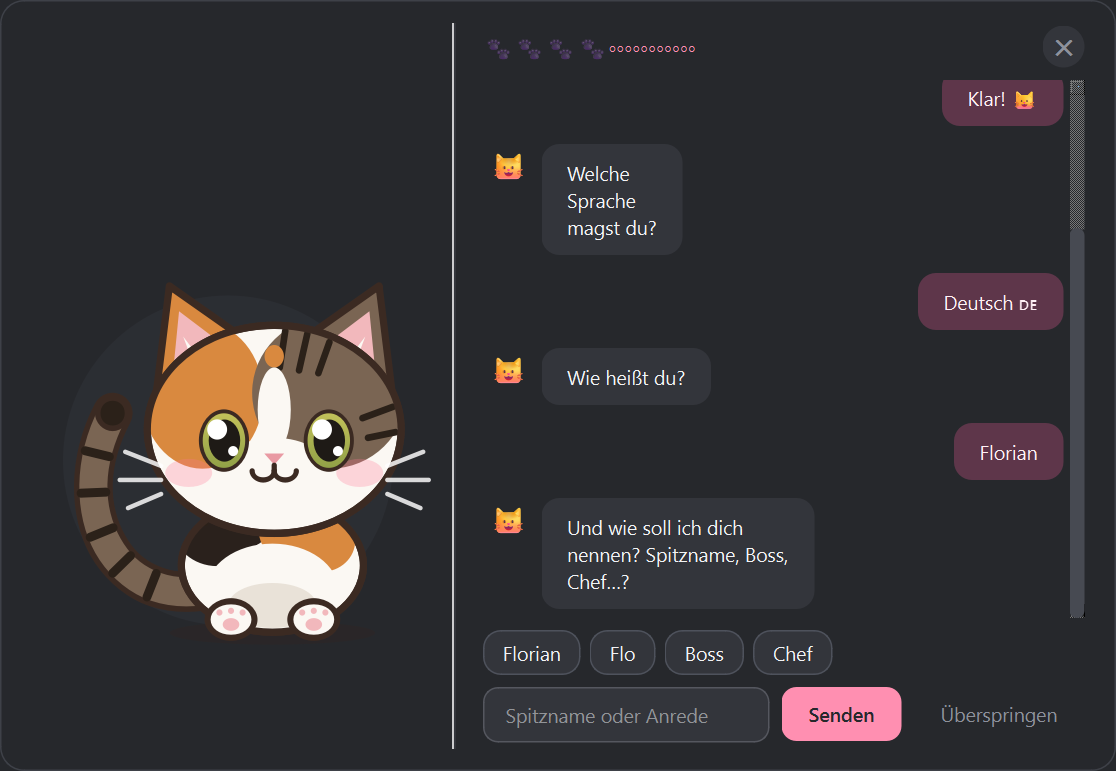
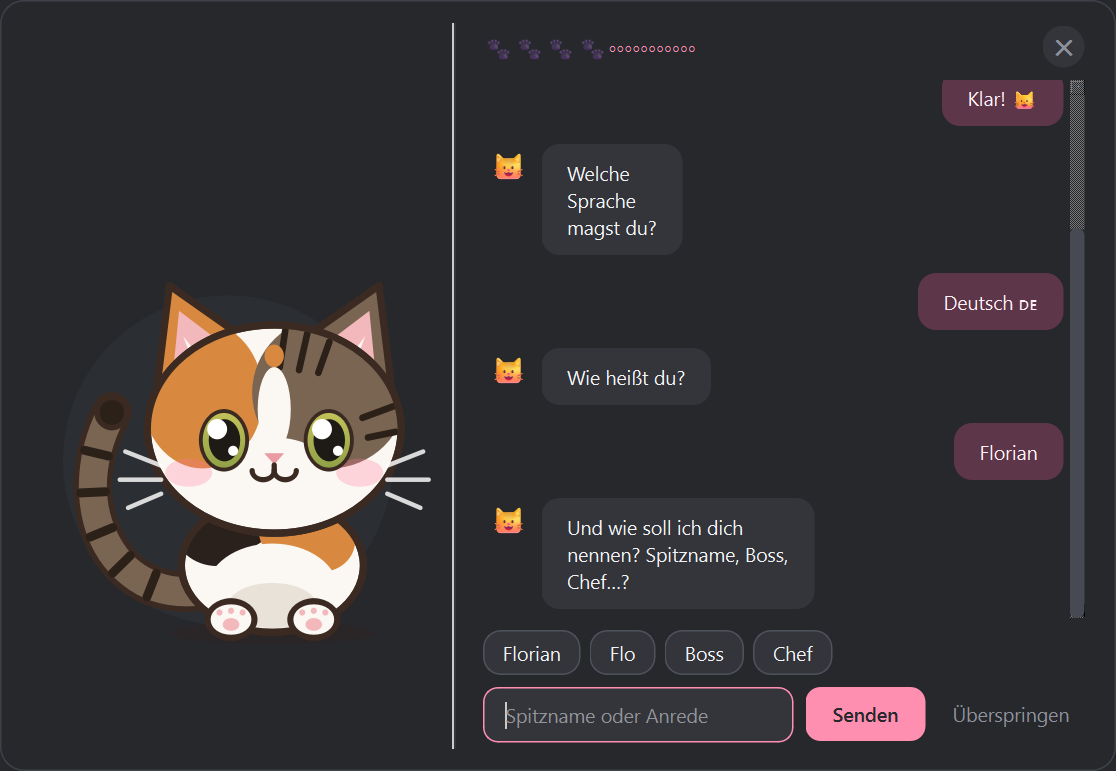
v2.2.1: Kennenlern-Buttons lesbar (Raster statt Zeile, "&" sichtbar)
Die Antwort-Chips standen alle in einer Zeile und wurden zusammengequetscht,
Texte und "Ueberspringen" waren abgeschnitten. Qt hat ausserdem "&" als
Tastenkuerzel verschluckt ("lieb & verspielt" -> "lieb  verspielt").
Jetzt 2-spaltiges Raster mit Mindestbreite, "&" maskiert, Ueberspringen in
eigener Zeile. Neue Screenshots ui_onboarding_tone/uses zur Kontrolle.

diff --git a/onboarding.py b/onboarding.py
@@ -32,6 +32,11 @@ FALLBACK_REACTIONS_EN = [
 ]
 
 
+def _btn_text(label: str) -> str:
+    """Qt macht aus '&' ein Tastenkuerzel und verschluckt es ('lieb & verspielt' -> 'lieb  verspielt')."""
+    return label.replace("&", "&&")
+
+
 def clean_free_text(text: str, max_len: int = 60) -> str:
     """Bereinigt Freitext-Eingaben: Whitespace trimmen, Zeilenumbrueche entfernen, Laenge begrenzen."""
     if not text:
@@ -886,32 +891,39 @@ class OnboardingDialog(QDialog):
 
     # -- UI-Generatoren fuer Eingabe-Elemente -------------------------------------------
     def _render_chips(self, chips: list[tuple[str, Any]], can_skip: bool = False) -> None:
-        chip_box = QHBoxLayout()
-        chip_box.setSpacing(8)
-
-        for label, val in chips:
-            btn = QPushButton(label)
+        # Raster statt einer Zeile: lange Chips ("🥰 lieb & verspielt") wurden sonst zusammengequetscht
+        grid = QGridLayout()
+        grid.setHorizontalSpacing(8)
+        grid.setVerticalSpacing(8)
+        cols = 2 if len(chips) > 2 else len(chips)
+        for i, (label, val) in enumerate(chips):
+            btn = QPushButton(_btn_text(label))
             btn.setCursor(Qt.CursorShape.PointingHandCursor)
             btn.setStyleSheet("""
                 QPushButton {
                     background: #3A3C43; color: #F2F3F5; border-radius: 14px;
-                    padding: 8px 16px; font-size: 10pt; font-weight: 500; border: none;
+                    padding: 9px 16px; font-size: 10pt; font-weight: 500; border: none;
                 }
                 QPushButton:hover { background: #FF8FB1; color: #26282C; }
             """)
+            btn.setMinimumWidth(btn.sizeHint().width())
             btn.clicked.connect(lambda _=False, v=val, l=label: self._handle_answer(v, l))
-            chip_box.addWidget(btn)
-
-        chip_box.addStretch(1)
+            grid.addWidget(btn, i // cols, i % cols)
+        self.input_lay.addLayout(grid)
 
         if can_skip:
-            btn_skip = QPushButton(tr("onboarding.btn_skip"))
-            btn_skip.setCursor(Qt.CursorShape.PointingHandCursor)
-            btn_skip.setStyleSheet("background: transparent; color: #8D919B; font-size: 9.5pt;")
-            btn_skip.clicked.connect(self._handle_skip)
-            chip_box.addWidget(btn_skip)
+            self.input_lay.addLayout(self._skip_row())
 
-        self.input_lay.addLayout(chip_box)
+    def _skip_row(self) -> QHBoxLayout:
+        row = QHBoxLayout()
+        row.addStretch(1)
+        btn_skip = QPushButton(tr("onboarding.btn_skip"))
+        btn_skip.setCursor(Qt.CursorShape.PointingHandCursor)
+        btn_skip.setStyleSheet("background: transparent; color: #8D919B; font-size: 9.5pt; padding: 4px 8px;")
+        btn_skip.setMinimumWidth(btn_skip.sizeHint().width())
+        btn_skip.clicked.connect(self._handle_skip)
+        row.addWidget(btn_skip)
+        return row
 
     def _render_text_input(self, placeholder: str, default_text: str = "", can_skip: bool = False) -> None:
         row = QHBoxLayout()
@@ -937,11 +949,7 @@ class OnboardingDialog(QDialog):
         row.addWidget(btn_send)
 
         if can_skip:
-            btn_skip = QPushButton(tr("onboarding.btn_skip"))
-            btn_skip.setCursor(Qt.CursorShape.PointingHandCursor)
-            btn_skip.setStyleSheet("background: transparent; color: #8D919B; font-size: 9.5pt;")
-            btn_skip.clicked.connect(self._handle_skip)
-            row.addWidget(btn_skip)
+            row.addLayout(self._skip_row())
 
         self.input_lay.addLayout(row)
         QTimer.singleShot(50, edit.setFocus)
@@ -961,7 +969,7 @@ class OnboardingDialog(QDialog):
         """)
 
         for label, val in chips:
-            btn = QPushButton(label)
+            btn = QPushButton(_btn_text(label))
             btn.setCursor(Qt.CursorShape.PointingHandCursor)
             btn.setStyleSheet("""
                 QPushButton {
@@ -989,11 +997,7 @@ class OnboardingDialog(QDialog):
         row.addWidget(btn_send)
 
         if can_skip:
-            btn_skip = QPushButton(tr("onboarding.btn_skip"))
-            btn_skip.setCursor(Qt.CursorShape.PointingHandCursor)
-            btn_skip.setStyleSheet("background: transparent; color: #8D919B; font-size: 9.5pt;")
-            btn_skip.clicked.connect(self._handle_skip)
-            row.addWidget(btn_skip)
+            row.addLayout(self._skip_row())
 
         self.input_lay.addLayout(row)
         QTimer.singleShot(50, edit.setFocus)
@@ -1004,7 +1008,7 @@ class OnboardingDialog(QDialog):
         selected_buttons: dict[str, QPushButton] = {}
 
         for i, opt in enumerate(options):
-            btn = QPushButton(opt)
+            btn = QPushButton(_btn_text(opt))
             btn.setCheckable(True)
             btn.setCursor(Qt.CursorShape.PointingHandCursor)
             btn.setStyleSheet("""
@@ -1016,6 +1020,7 @@ class OnboardingDialog(QDialog):
                     background: #FF8FB1; color: #26282C; font-weight: bold;
                 }
             """)
+            btn.setMinimumWidth(btn.sizeHint().width())
             selected_buttons[opt] = btn
             grid.addWidget(btn, i // 3, i % 3)
 
@@ -1034,11 +1039,7 @@ class OnboardingDialog(QDialog):
         btn_row.addWidget(btn_next)
         btn_row.addStretch(1)
 
-        btn_skip = QPushButton(tr("onboarding.btn_skip"))
-        btn_skip.setCursor(Qt.CursorShape.PointingHandCursor)
-        btn_skip.setStyleSheet("background: transparent; color: #8D919B; font-size: 9.5pt;")
-        btn_skip.clicked.connect(self._handle_skip)
-        btn_row.addWidget(btn_skip)
+        btn_row.addLayout(self._skip_row())
 
         self.input_lay.addLayout(btn_row)
 

diff --git a/tools_dev/save_screenshots.py b/tools_dev/save_screenshots.py
@@ -465,6 +465,18 @@ def save_onboarding_screenshots(out_dir: Path) -> None:
     dlg2.close()
     print(f"UI-Screenshot gespeichert: {out_dir / 'ui_onboarding_2.png'}")
 
+    # Chips mit langen Texten (Tonfall, PC-Nutzung) - hier waren Texte abgeschnitten
+    for step, fname in ((8, "ui_onboarding_tone.png"), (6, "ui_onboarding_uses.png")):
+        dlg = OnboardingDialog(cfg)
+        dlg._clear_chat()
+        dlg.flow.step = step
+        dlg.flow.answers.update({"language": "de", "name": "Florian", "user_name": "Florian"})
+        dlg._add_user_bubble("coden; gaming; gym")
+        dlg._render_current_step()
+        _show_and_grab(dlg).save(str(out_dir / fname))
+        dlg.close()
+        print(f"UI-Screenshot gespeichert: {out_dir / fname}")
+
     # 3. Figur-Galerie (ui_onboarding_3.png)
     dlg3 = OnboardingDialog(cfg)
     dlg3._clear_chat()

diff --git a/version.py b/version.py
@@ -1,2 +1,2 @@
-__version__ = "2.2.0"
+__version__ = "2.2.1"
 UPDATE_REPO = "NairolfDev/DesktopCat"   # GitHub owner/repo für Releases
